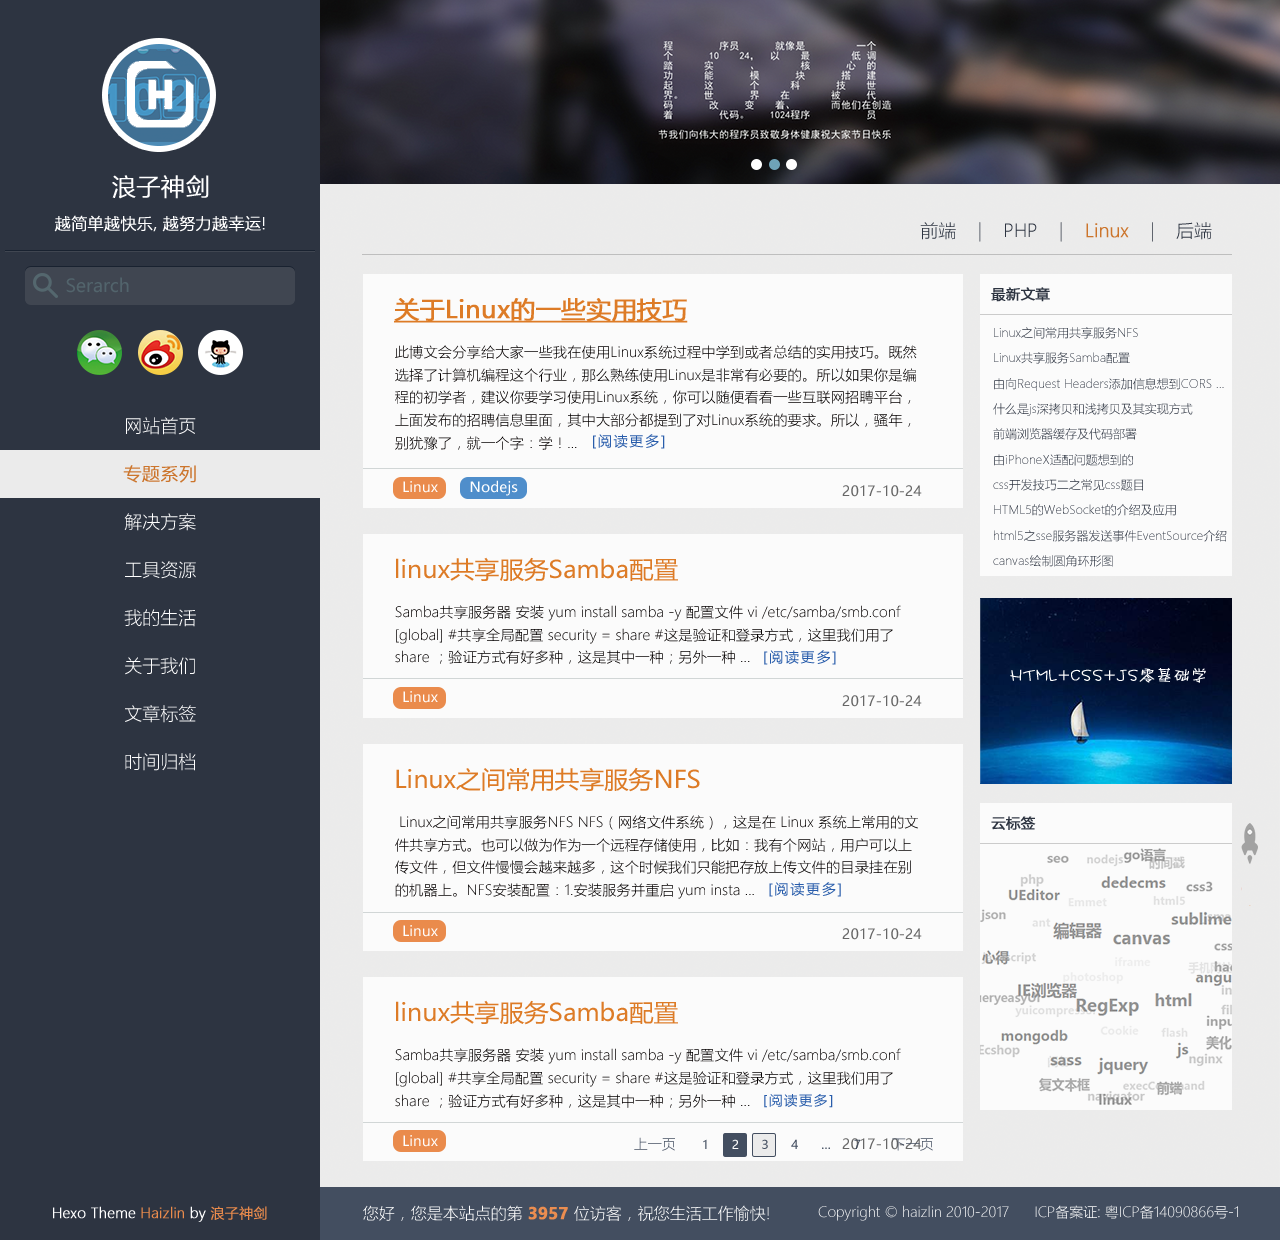
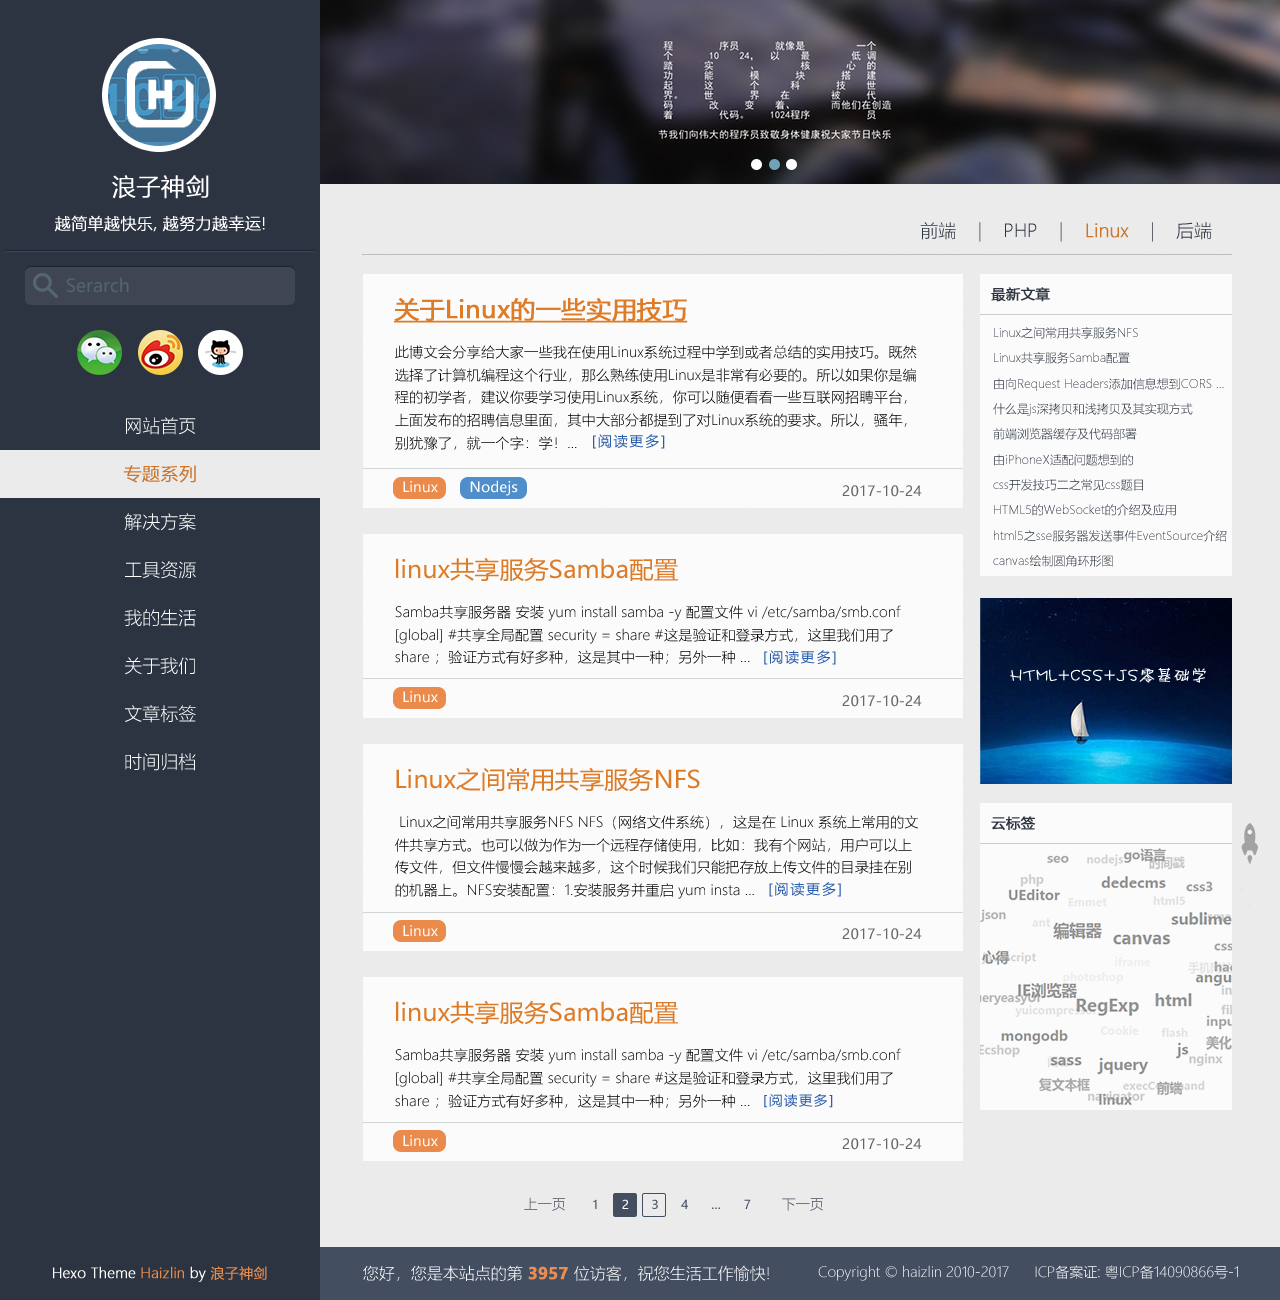
添加时间归档页面及修改细节

diff --git a/docs/template/articles.html b/docs/template/articles.html
@@ -11,9 +11,9 @@
     <meta name="apple-mobile-web-app-status-bar-style" content="black">
     <meta name="viewport" content="width=device-width, initial-scale=1, maximum-scale=1">
 
-    <title>List</title>
-    <meta content="List" name="keywords">
-    <meta content="List" name="description">
+    <title>Archives</title>
+    <meta content="Archives" name="keywords">
+    <meta content="Archives" name="description">
     <link rel="shortcut icon" href="/favicon.ico"/>
     <link rel="bookmark" href="/favicon.ico"/>
     <link rel="stylesheet" type="text/css" href="./css/style.css">
@@ -45,14 +45,14 @@
 
                 <nav>
                     <ul>
-                        <li class="current"><a href="./index.html">网站首页</a></li>
+                        <li><a href="./index.html">网站首页</a></li>
                         <li><a href="./list.html">专题系列</a></li>
                         <li><a href="./list.html">解决方案</a></li>
                         <li><a href="./tools.html">工具资源</a></li>
                         <li><a href="./about.html">我的生活</a></li>
                         <li><a href="./about.html">关于我们</a></li>
                         <li><a href="./tag.html">文章标签</a></li>
-                        <li><a href="./articles.html">时间归档</a></li>
+                        <li class="current"><a href="./articles.html">时间归档</a></li>
                     </ul>
                 </nav>
             </div>
@@ -69,17 +69,33 @@
 
             <section>
                 <nav class="sub-nav">
-                    <a href="#" class="current">前端</a>
-                    <a href="#">PHP</a>
-                    <a href="#">Linux</a>
-                    <a href="#">后端</a>
-                    <a href="#">数据库</a>
+                    <a href="#" class="current">全部</a>
+                    <a href="#">最新</a>
+                    <a href="#">2017</a>
+                    <a href="#">2016</a>
+                    <a href="#">2015</a>
                 </nav>
             </section>
             
             <div class="container fn-c">
-                <article class="article-list">
-                    articles……
+                <article class="archives">
+                    <div class="times-list fn-c">
+                        <p class="year fn-l">2017</p>
+                        <ul class="fn-l">
+                            <li><a href="#">关于Linux的一些使用技巧</a><span class="date">10-27</span></li>
+                            <li><a href="#">JavaScript的单线程事件循环及多线程介绍,JavaScript的单线程事件循环及多线程介绍</a><span class="date">10-27</span></li>
+                            <li><a href="#">Nodejs核心模块 Timers详解</a><span class="date">10-27</span></li>
+                            <li><a href="#">Linux共享服务Samba配置</a><span class="date">10-27</span></li>
+                        </ul>
+                    </div>
+
+                    <div class="times-list fn-c">
+                        <p class="year fn-l">2016</p>
+                        <ul class="fn-l">
+                            <li><a href="#">企业官网网站前端开发</a><span>10-27</span></li>
+                            <li><a href="#">HTML+CSS+JS技术要点</a><span>10-27</span></li>
+                        </ul>
+                    </div>
 
                     <div class="page">
                         <a href="#">上一页</a>

diff --git a/docs/template/css/style.css b/docs/template/css/style.css
@@ -42,6 +42,10 @@ em{font-style:normal}
     }
 }
 
+@media only screen and (max-width: 320px) {
+    .main-right .container{margin:0 !important;}
+}
+
 .wrap{}
 
 .wrap-left{z-index: 101;}
@@ -75,7 +79,7 @@ em{font-style:normal}
 .main-right article .article-wrap .date{color: #666;margin-top: 10px;font-size: 14px;}
 .main-right article .article-wrap .view{margin-left: 45px;}
 .main-right article .article-wrap .content{margin-top: 35px;line-height: 24px;color: #040000;font-size: 14px;}
-.main-right article li{margin-top: 27px;background: #fbfbfb;padding:25px 33px 0px 33px;}
+.main-right article .index-list li{margin-top: 27px;background: #fbfbfb;padding:25px 33px 0px 33px;}
 .main-right article .title{font-size: 24px;color: #dd7b26;}
 .main-right article .title a{color: #dd7b26;}
 .main-right article .title a:hover{font-weight:bold;text-decoration: underline;}
@@ -98,6 +102,15 @@ em{font-style:normal}
 .main-right article .share{text-align: right;height: 16px;margin-bottom: 30px;}
 .main-right article .share .jiathis_style{display: inline-block;}
 .main-right article .prev-next a{color:#434e60;}
+
+/* 时间归档 */
+.main-right .archives .times-list{margin-bottom: 30px;background: #fff;padding:9px 0 18px 29px;}
+.main-right .archives .times-list .year{color: #dd7b26;font-size: 36px;margin-right: 32px;}
+.main-right .archives .times-list ul{width:calc(100% - 130px);}
+.main-right .archives .times-list li{border-bottom: 1px solid #d1d6d6;clear: both;padding:15px 0;}
+.main-right .archives .times-list li a{font-size: 18px;color: #666;width:calc(100% - 120px);display: inline-block;line-height: 24px;}
+.main-right .archives .times-list li a:hover{color: #dd7b26;}
+.main-right .archives .times-list li span{font-size: 14px;color: #666;float: right;background: url(../images/btn_date.png) no-repeat center left;padding-left: 32px;margin-right: 29px;display: inline-block;}
 
 /* 关于 */
 .main-right .container-about .info{margin-left: 73px;}

diff --git a/docs/template/index.html b/docs/template/index.html
@@ -68,7 +68,7 @@
             </div>
             
             <div class="container fn-c">
-                <article>
+                <article class="index-list">
                     <ul>
                         <li>
                             <p class="title"><a href="#">关于Linux的一些实用技巧</a></p>

diff --git a/README.md b/README.md
@@ -46,9 +46,9 @@
 
 ![Tags](./docs/views/Tags.png)
 
-- 时间归档([查看大图](https://raw.githubusercontent.com/haizlin/blog-theme/develop/docs/views/Times.png))
+- 时间归档([查看大图](https://raw.githubusercontent.com/haizlin/blog-theme/develop/docs/views/Archives.png))
 
-![Times](./docs/views/Times.png)
+![Archives](./docs/views/Archives.png)
 
 - 工具([查看大图](https://raw.githubusercontent.com/haizlin/blog-theme/develop/docs/views/Tools.png))
 
